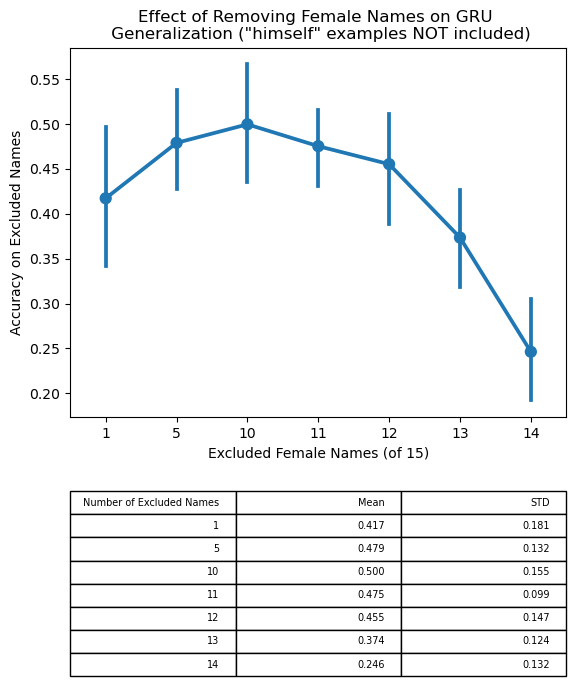
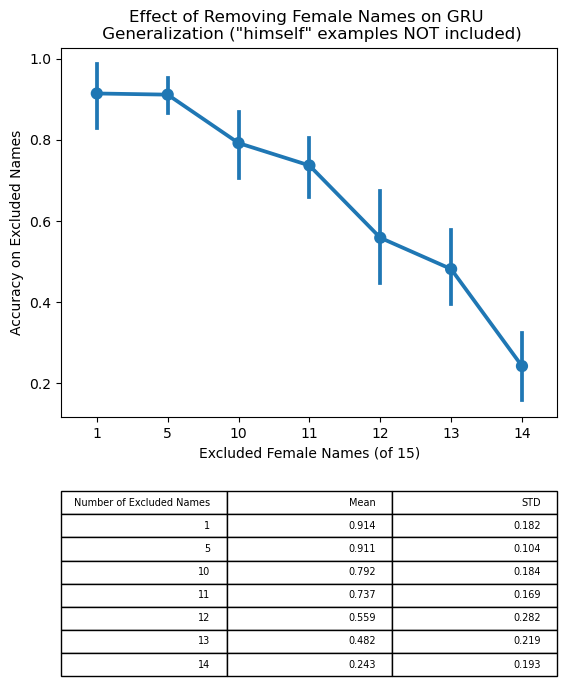
Fixed error in experiment
In the experiment where I tested the effects of removing all instances of "himself" from the train data, I forgot to also remove it from the test data. This code fixes that and replaces the resulting figure

diff --git a/Main.py b/Main.py
@@ -44,6 +44,7 @@ def create_train_corpus(corpus, excluded_females=0, exclude_men=False):
         corpus_test += [pair for pair in corpus if  name in pair[0] and ("herself" in pair[0] or "himself" in pair[0])]
     
     corpus_train = [pair for pair in corpus if not pair in corpus_test]
+    corpus_test = [pair for pair in corpus_test if not "himself" in pair[0]]
 
     return corpus_train, corpus_test
 
@@ -266,7 +267,7 @@ experiments = [1, 5, 10, 11, 12, 13, 14]
 for n in experiments:
     corpus_train, corpus_test = create_train_corpus(corpus, excluded_females=n, exclude_men=True)
     new_results = train_on_corpus(corpus_train, corpus_test)
-    print(f"Excluding {n} FEMALE names, test accuracy was {new_results}")
+    print(f"Excluding {n} FEMALE  names, test accuracy was {new_results}")
     results[f"excluding {n} females, including all males"] = new_results
 
 # %%
@@ -309,5 +310,3 @@ plt.show()
 # Implement encoder/decoder transformer, run same code
 # Implement decoder only transformer
 # Try GPT2
-
-# %%
